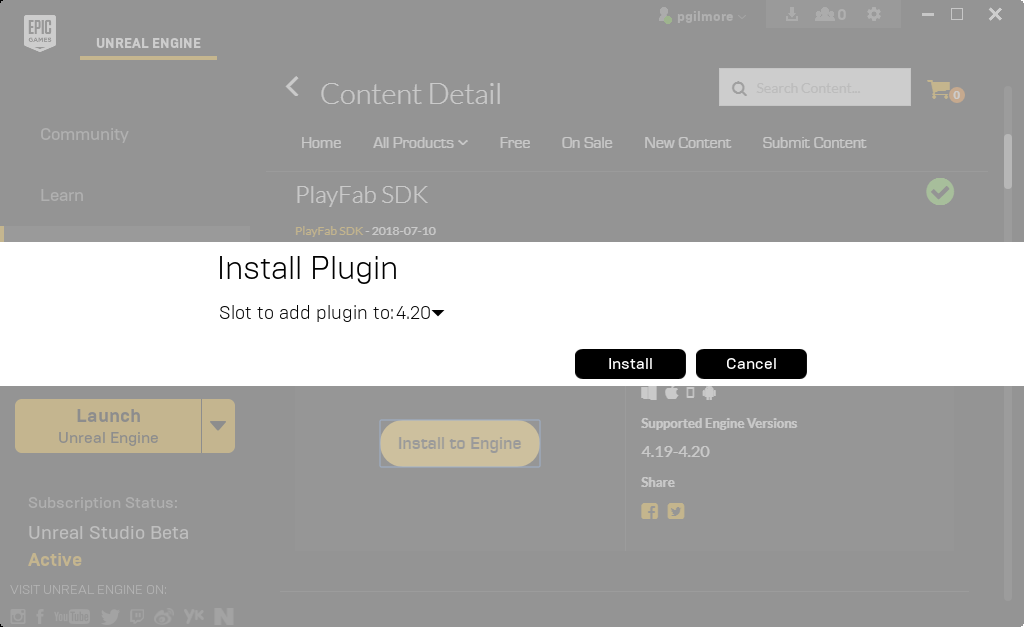
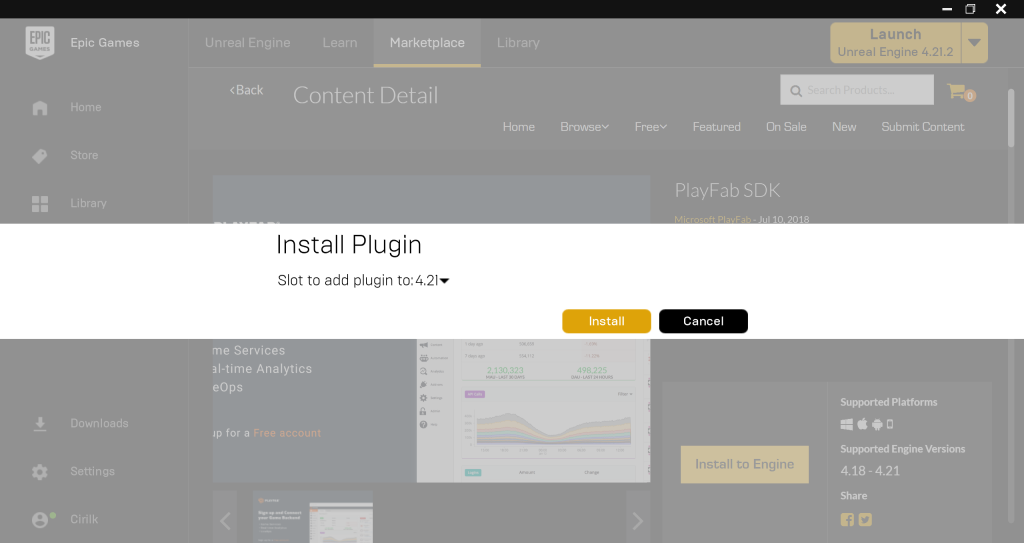
Kc unreal qs (#455)
* Reformat and clarification.

* Add boilerplate tweak

* Tweak to content.

* Some changes to Unreal QS, not yet complete.

* Reformat and fixes to Unreal quickstart.

* Update uemk-001.jpg

* Updating screenshots from Unreal marketplace and project setup.

diff --git a/playfab-docs/sdks/unreal/quickstart.md b/playfab-docs/sdks/unreal/quickstart.md
@@ -61,19 +61,19 @@ Use the following steps to ensure you've properly installed the PlayFab Plugin.
 
     ![Install to engine](media/uemk-install-to-engine.png) 
 
-3. Pick your version again.
+3. Confirm your version and click **Install**.
 
     ![Pick version again](media/uemk-version-again.png) 
 
-4. Click the "Launch" button, and run Unreal Engine.
+4. Click the **Launch** button, and run Unreal Engine.
 
 5. Select all the options as seen here:  **New Project** tab, **C++** sub-tab, **No Starter Content**.
 
       ![Create project settings](media/uemk-create-project-settings.png) 
 
-5. Create Project with these options.
+6. Now, click **Create Project** with these options.
 
-6. Enable the PlayFab Plugin.
+7. Enable the PlayFab Plugin.
 
     ![Enable plugin](media/uemk-enable-plugin.png) 
 
